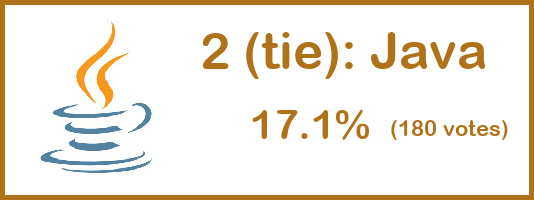
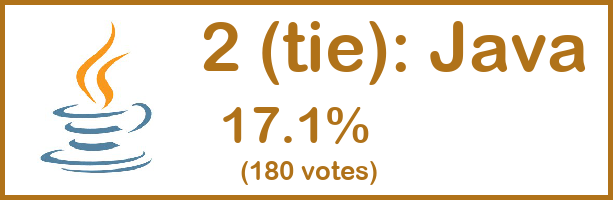
less wide labels, begin label pasting onto plot

diff --git a/SurveyGraph.py b/SurveyGraph.py
@@ -61,7 +61,7 @@ def CreateLangLabelImg_fx(lang_rank, lang_name, vote_percent, vote_count, q_name
 	
 	os.chdir('..')	
 	
-	'''Logo'''
+	'''Logo resizing'''
 	# resizing LangLogo
 	# if WIDE, then scale the height according to width
 	if lang_logo.size[0] > lang_logo.size[1]:
@@ -77,13 +77,11 @@ def CreateLangLabelImg_fx(lang_rank, lang_name, vote_percent, vote_count, q_name
 		nuwidth_int = round(nuwidth_float/2.0) * 2
 		# resizing LangLogo
 		lang_logo = lang_logo.resize((nuwidth_int, 160))
-	# if neither tall nor wide, then EVEN, and just resize to 160,160
+	# if neither tall nor wide, then EVEN, and just resize to 280,280
 	else:
 		lang_logo = lang_logo.resize((160,160))
 	
-	
-	
-	'''Title'''
+	'''Title sizing'''
 	# defining Lang Title Str for the #2 current tie
 	if q_name == 'Q2Current' and lang_name in ['Java', 'JavaScript']:
 		lang_title_str = '2 (tie): ' + lang_name
@@ -91,59 +89,55 @@ def CreateLangLabelImg_fx(lang_rank, lang_name, vote_percent, vote_count, q_name
 	else:
 		lang_title_str = str(lang_rank) + ': ' + lang_name
 	
-	# determing which font number is closest to 60 height for the Title
+	# determing which font number is closest to 80 height for the Title
 	for fsize in np.arange(100,0,-1):
 		# creating langFont
 		lang_title_fnt = ImageFont.truetype('ARLRDBD.TTF', fsize)
-		# testing if at or below 65, breaking if so
-		if lang_title_fnt.getsize(lang_title_str)[1] <= 60:
+		# testing if at or below 80, breaking if so
+		if lang_title_fnt.getsize(lang_title_str)[1] <= 80:
 			break
 	
 	# finding the size of the title
 	lang_title_size = lang_title_fnt.getsize(lang_title_str)
 	
-	'''Vote Perc'''
+	'''Vote Perc sizing'''
 	# defining Lang VotePerc Str
 	lang_voteperc_str = '{:.1%}'.format(vote_percent)
 	
-	# determing which font number is closest to 40 height for the Percent
+	# determing which font number is closest to 50 height for the Percent
 	for fsize in np.arange(100,0,-1):
 		# creating langFont
 		lang_voteperc_fnt = ImageFont.truetype('ARLRDBD.TTF', fsize)
-		# testing if below 80, breaking if so
-		if lang_voteperc_fnt.getsize(lang_voteperc_str)[1] <= 40:
+		# testing if below 50, breaking if so
+		if lang_voteperc_fnt.getsize(lang_voteperc_str)[1] <= 50:
 			break
 	
 	# defining Lang VotePerc Size
 	lang_voteperc_size = lang_voteperc_fnt.getsize(lang_voteperc_str)
 	
-	'''Vote Count'''
+	'''Vote Count sizing'''
 	# defining Lang VoteCount Str
 	lang_votecount_str = '(' + str(int(vote_count)) + ' votes)'
 	
-	# determing which font number is closest to 25 height for the Count
+	# determing which font number is closest to 30 height for the Count
 	for fsize in np.arange(100,0,-1):
 		# creating langFont
 		lang_votecount_fnt = ImageFont.truetype('ARLRDBD.TTF', fsize)
-		# testing if below 80, breaking if so
-		if lang_votecount_fnt.getsize(lang_votecount_str)[1] <= 25:
+		# testing if below 30, breaking if so
+		if lang_votecount_fnt.getsize(lang_votecount_str)[1] <= 30:
 			break	
 	
 	# defining Lang VoteCount Size
 	lang_votecount_size = lang_votecount_fnt.getsize(lang_votecount_str)
 	
-	'''White Background Creation'''
+	'''White Background creation'''
 	# determining the width
-	# first, find the longer length between the Title, or Count
-	farthest_title_x = 200 + lang_title_size[0]
-	farthest_count_x = 270 + lang_voteperc_size[0] + lang_votecount_size[0]
+	# first, find the longer length between the Title, Perc, and Count
+	farthest_x = max([lang_title_size[0], lang_voteperc_size[0] + 20, lang_votecount_size[0] + 40])
 	
 	# creating Background Size, picking between Farthest Title or Count for the X width
-	if farthest_title_x > farthest_count_x:
-		background_size = (farthest_title_x + 15, 190)
-	else:
-		background_size = (farthest_count_x + 15, 190)
-	
+	background_size = (farthest_x + 215, 190)
+		
 	# creating white background
 	background_img = Image.new('RGBA', background_size, 'white')
 	# adding border
@@ -163,18 +157,17 @@ def CreateLangLabelImg_fx(lang_rank, lang_name, vote_percent, vote_count, q_name
 	
 	'''Drawing on Title, Vote Perc, and Vote Count'''
 	# determining Title position
-	lang_title_position = (200,20)
+	lang_title_position = (200,5)
 	# creating draw object
 	full_draw = ImageDraw.Draw(full_img)
 	# drawing colored center
 	full_draw.text(lang_title_position, lang_title_str, fill = lang_color, font = lang_title_fnt)
 	
 	# drawing Lang VotePerc
-	full_draw.text((250, 100), lang_voteperc_str, fill = lang_color, font = lang_voteperc_fnt)
+	full_draw.text((220, 5 + 90), lang_voteperc_str, fill = lang_color, font = lang_voteperc_fnt)
 	
 	# drawing Lang VoteCount
-	full_draw.text((270 + lang_voteperc_size[0], 140 - lang_votecount_size[1]),
-						lang_votecount_str, fill = lang_color, font = lang_votecount_fnt)
+	full_draw.text((240, 5 + 90 + 60), lang_votecount_str, fill = lang_color, font = lang_votecount_fnt)
 	
 	# drawing black outline... anchor is (290, 30)
 	# FIX LATER
@@ -205,9 +198,9 @@ q1_df = q1_df.sort_values('Q1_Academic', ascending = False).reset_index(drop = T
 for tmp_i, tmp_row in q1_df.iterrows():
 	# running function
 	CreateLangLabelImg_fx(lang_rank = tmp_i, lang_name = tmp_row['Language'],
-							   vote_percent = tmp_row['Q1_Academic_Perc'],
-							   vote_count = tmp_row['Q1_Academic'],
-							   q_name = 'Q1Academic')
+						  vote_percent = tmp_row['Q1_Academic_Perc'],
+						  vote_count = tmp_row['Q1_Academic'],
+						  q_name = 'Q1Academic')
 
 # Q2
 q2_df = main_survey_df[['Language', 'Q2_Current', 'Q2_Current_Perc']]
@@ -218,9 +211,9 @@ q2_df = q2_df.sort_values('Q2_Current', ascending = False).reset_index(drop = Tr
 for tmp_i, tmp_row in q2_df.iterrows():
 	# running function
 	CreateLangLabelImg_fx(lang_rank = tmp_i, lang_name = tmp_row['Language'],
-							   vote_percent = tmp_row['Q2_Current_Perc'],
-							   vote_count = tmp_row['Q2_Current'],
-							   q_name = 'Q2Current')
+						  vote_percent = tmp_row['Q2_Current_Perc'],
+						  vote_count = tmp_row['Q2_Current'],
+						  q_name = 'Q2Current')
 
 """
 STEP 3A: initial parallel coordinates plot
@@ -232,8 +225,8 @@ parallel_df = pd.melt(main_survey_df, id_vars = 'Language', value_vars = ['Q1_Ac
 # initial ggplot obj
 parallel_ggplot = (ggplot(mapping = aes(x = 'QType', y = 'Percent', color = 'Language', group = 'Language'),
 						  data = parallel_df) +
-					geom_point() +
-					geom_line() +
+					geom_point(size = 5) +
+					geom_line(size = 3) +
 					scale_color_manual(values = colorhex_sortedlst, guide = False) +
 					scale_x_discrete(expand = (0.05,0)) +
 					scale_y_continuous(limits = (0,0.25),
@@ -245,7 +238,45 @@ parallel_ggplot = (ggplot(mapping = aes(x = 'QType', y = 'Percent', color = 'Lan
 					theme_538() +
 					theme(axis_title_y = element_blank()))
     
-parallel_ggplot.save('parallel_ggplot.png', width = 3, height = 10, dpi = 200)
+parallel_ggplot.save('parallel_ggplot.png', width = 3, height = 16, dpi = 200)
+
+# reading the Parallel GGPlot as an Image
+paraPlot_img = Image.open('parallel_ggplot.png')
+
+# creating grey background
+fullPlot_background_img = Image.new('RGBA', (1800, paraPlot_img.size[1]), '#F0F0F0')
+
+# pasting the Paraplot onto the Background image
+fullPlot_img = fullPlot_background_img.copy()
+fullPlot_img.paste(paraPlot_img, box = (int(900 - (paraPlot_img.size[0]/2)), 0))
+
+"""
+STEP 3B: pasting the Lang Labels onto the sides of the plot
+"""
+# moving into the LanguageLabels directory
+os.chdir('./LanguageLabels')
+
+# iterating through each LangLabel, pasting the Label where it belongs on the ParaPlot
+for label_fname in os.listdir():
+	# defining the ImageObj of this label
+	label_imageObj = Image.open(label_fname)
+	
+	# asdf
+	if label_fname == 'Q1Academic_1Java.png':
+		fullPlot_img.paste(label_imageObj, (100,130))
+	elif label_fname == 'Q1Academic_2C.png':
+		fullPlot_img.paste(label_imageObj, (140, 600))
+	elif label_fname == 'Q1Academic_3C++.png':
+		fullPlot_img.paste(label_imageObj, (120, 880))
+	elif label_fname == 'Q1Academic_4Python.png':
+		fullPlot_img.paste(label_imageObj, (100, 1300))
+	elif label_fname == 'Q1Academic_5Assembly.png':
+		fullPlot_img.paste(label_imageObj, (70, 1420))
+
+# moving out into the main directory
+os.chdir('..')
+# saving fullPlot Image
+fullPlot_img.save("parallel_ggplot.png")
 
 # TOC
 tt.toc()
